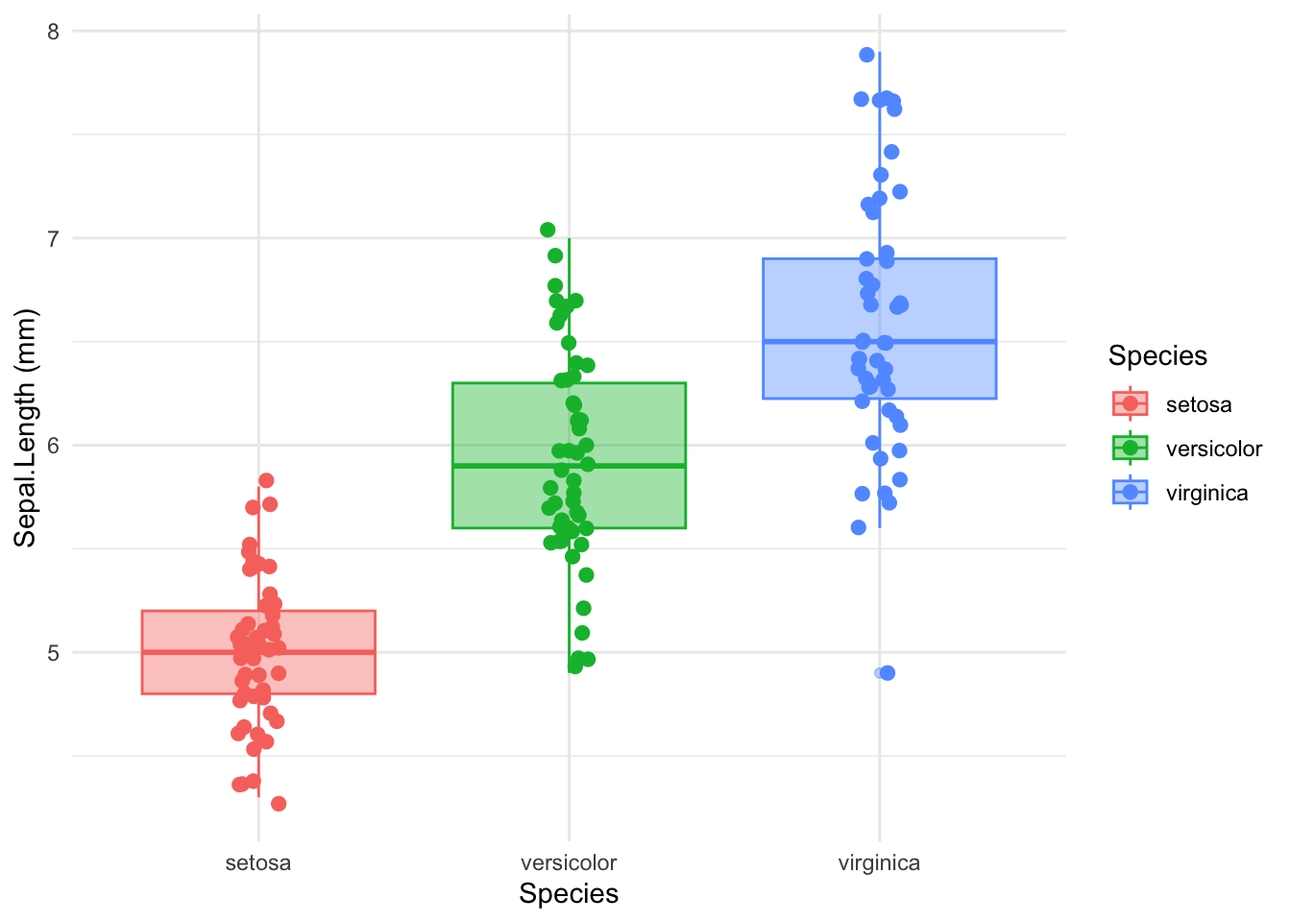
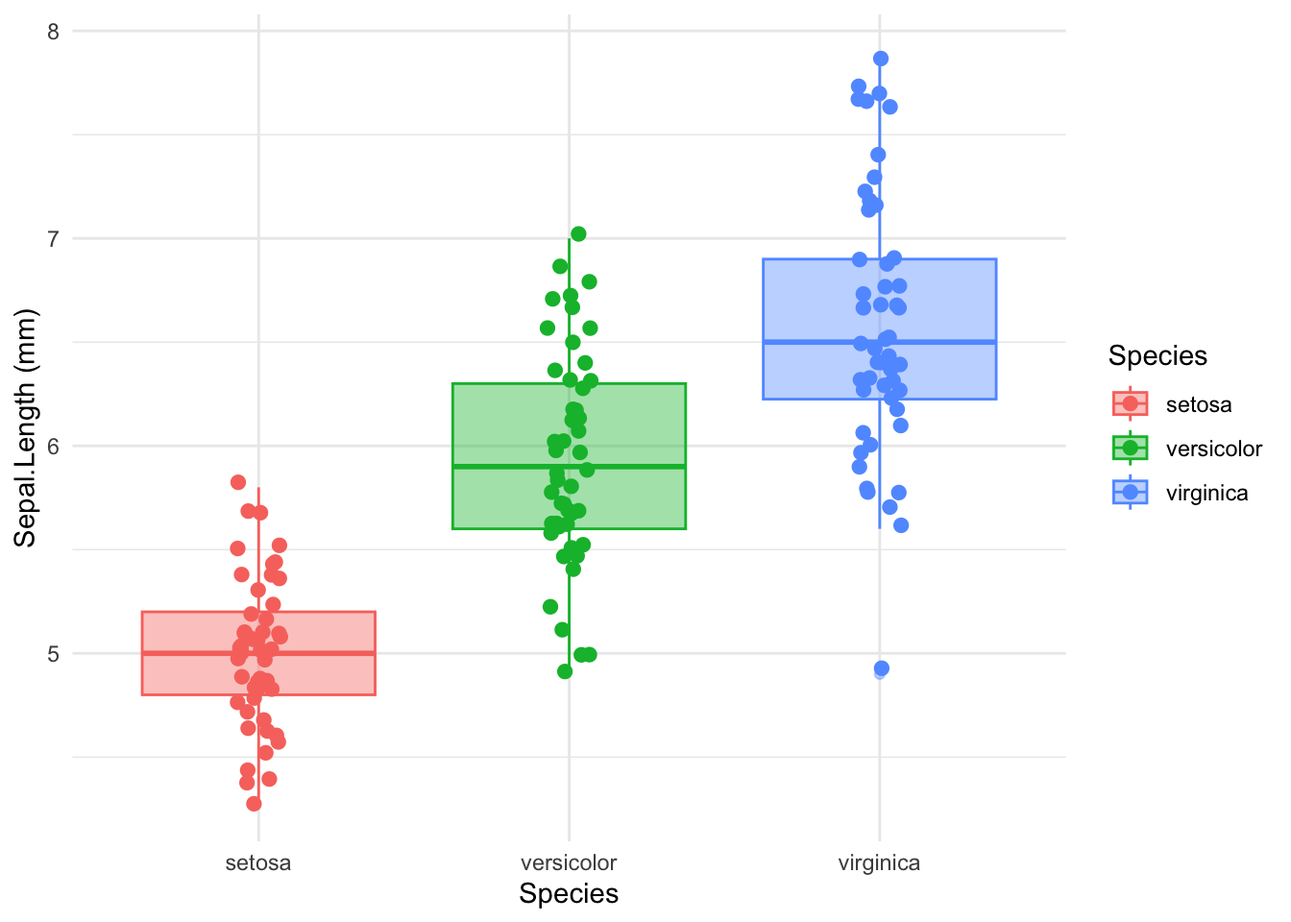
update

diff --git a/_site/Graph.html b/_site/Graph.html
@@ -144,7 +144,14 @@ pre > code.sourceCode > span > a:first-child::before { text-decoration: underlin
  <span class="menu-text">Graph</span></a>
   </li>  
 </ul>
-            <div class="quarto-navbar-tools ms-auto">
+            <ul class="navbar-nav navbar-nav-scroll ms-auto">
+  <li class="nav-item compact">
+    <a class="nav-link" href="https://github.com/marcgarel/quarto2.github.io" rel="" target=""><i class="bi bi-github" role="img">
+</i> 
+ <span class="menu-text"></span></a>
+  </li>  
+</ul>
+            <div class="quarto-navbar-tools">
 </div>
           </div> <!-- /navcollapse -->
       </div> <!-- /container-fluid -->
@@ -698,8 +705,8 @@ Attachement du package : 'dplyr'</code></pre>
 <span id="cb37-6"><a href="#cb37-6" aria-hidden="true" tabindex="-1"></a></span>
 <span id="cb37-7"><a href="#cb37-7" aria-hidden="true" tabindex="-1"></a>plotly<span class="sc">::</span><span class="fu">ggplotly</span>(p4, <span class="at">height =</span> <span class="dv">350</span>, <span class="at">width=</span><span class="dv">800</span>)</span></code><button title="Copy to Clipboard" class="code-copy-button"><i class="bi"></i></button></pre></div>
 <div class="cell-output-display">
-<div id="htmlwidget-ca898e4db4f6426ebc24" style="width:100%;height:284px;" class="plotly html-widget "></div>
-<script type="application/json" data-for="htmlwidget-ca898e4db4f6426ebc24">{"x":{"data":[{"x":[1,1,1,1,1,1,1,1,1,1,1,1,1,1,1,1,1,1,1,1,1,1,1,1,1,1,1,1,1,1,1,1,1,1,1,1,1,1,1,1,1,1,1,1,1,1,1,1,1,1],"y":[5.1,4.9,4.7,4.6,5,5.4,4.6,5,4.4,4.9,5.4,4.8,4.8,4.3,5.8,5.7,5.4,5.1,5.7,5.1,5.4,5.1,4.6,5.1,4.8,5,5,5.2,5.2,4.7,4.8,5.4,5.2,5.5,4.9,5,5.5,4.9,4.4,5.1,5,4.5,4.4,5,5.1,4.8,5.1,4.6,5.3,5],"hoverinfo":"y","type":"box","fillcolor":"rgba(248,118,109,0.4)","marker":{"opacity":null,"outliercolor":"rgba(0,0,0,1)","line":{"width":1.88976377952756,"color":"rgba(0,0,0,1)"},"size":5.66929133858268},"line":{"color":"rgba(248,118,109,1)","width":1.88976377952756},"name":"setosa","legendgroup":"setosa","showlegend":true,"xaxis":"x","yaxis":"y","frame":null},{"x":[2,2,2,2,2,2,2,2,2,2,2,2,2,2,2,2,2,2,2,2,2,2,2,2,2,2,2,2,2,2,2,2,2,2,2,2,2,2,2,2,2,2,2,2,2,2,2,2,2,2],"y":[7,6.4,6.9,5.5,6.5,5.7,6.3,4.9,6.6,5.2,5,5.9,6,6.1,5.6,6.7,5.6,5.8,6.2,5.6,5.9,6.1,6.3,6.1,6.4,6.6,6.8,6.7,6,5.7,5.5,5.5,5.8,6,5.4,6,6.7,6.3,5.6,5.5,5.5,6.1,5.8,5,5.6,5.7,5.7,6.2,5.1,5.7],"hoverinfo":"y","type":"box","fillcolor":"rgba(0,186,56,0.4)","marker":{"opacity":null,"outliercolor":"rgba(0,0,0,1)","line":{"width":1.88976377952756,"color":"rgba(0,0,0,1)"},"size":5.66929133858268},"line":{"color":"rgba(0,186,56,1)","width":1.88976377952756},"name":"versicolor","legendgroup":"versicolor","showlegend":true,"xaxis":"x","yaxis":"y","frame":null},{"x":[3,3,3,3,3,3,3,3,3,3,3,3,3,3,3,3,3,3,3,3,3,3,3,3,3,3,3,3,3,3,3,3,3,3,3,3,3,3,3,3,3,3,3,3,3,3,3,3,3,3],"y":[6.3,5.8,7.1,6.3,6.5,7.6,4.9,7.3,6.7,7.2,6.5,6.4,6.8,5.7,5.8,6.4,6.5,7.7,7.7,6,6.9,5.6,7.7,6.3,6.7,7.2,6.2,6.1,6.4,7.2,7.4,7.9,6.4,6.3,6.1,7.7,6.3,6.4,6,6.9,6.7,6.9,5.8,6.8,6.7,6.7,6.3,6.5,6.2,5.9],"hoverinfo":"y","type":"box","fillcolor":"rgba(97,156,255,0.4)","marker":{"opacity":null,"outliercolor":"rgba(0,0,0,1)","line":{"width":1.88976377952756,"color":"rgba(0,0,0,1)"},"size":5.66929133858268},"line":{"color":"rgba(97,156,255,1)","width":1.88976377952756},"name":"virginica","legendgroup":"virginica","showlegend":true,"xaxis":"x","yaxis":"y","frame":null},{"x":[1.00079128641635,0.931929415189661,0.94114892563317,1.00329865990672,0.934742586831562,1.02930625326,1.00300614621025,0.946089755799621,1.01433819714934,1.00128880893812,1.05833825688343,0.996778618204407,0.980784788886085,0.99013577232603,0.954372584335506,1.05053913369309,1.01101059493143,1.04415661919396,0.936728996993043,1.00929467872716,1.03090716088656,0.949894954361953,0.957413140982389,0.960828641802073,0.968080060221255,1.04637819108553,0.966221432569437,0.994820153918117,0.962149033481255,1.02070859925821,0.94820470649749,1.06844352098648,1.0291877951147,0.977481240741909,0.953076872578822,1.02950778458267,0.995959759010002,0.980662551689893,0.945571331004612,1.03850658743642,0.935295293047093,1.02195838039741,1.00526006545406,1.05972089958843,1.06736678103451,1.06602155196015,0.941716392296366,0.930447400836274,0.95495330738835,1.0487487702677],"y":[5.07685811325908,4.90272129043937,4.70428468139842,4.60751972861588,4.96371283648536,5.41053533047438,4.6002053068392,5.00316812792793,4.36744402151555,4.89952847009525,5.39994288545102,4.83612860530615,4.81700391031802,4.28595763273537,5.76424933375791,5.72207270298153,5.4277902873978,5.07846639301628,5.70563537668437,5.07750566208735,5.39109959451482,5.12679593076929,4.58881034152582,5.09580119648948,4.80144913375378,4.99927793303505,5.02603383053094,5.20190315529704,5.18162941211835,4.72089416220784,4.77581893133,5.41142962859944,5.21545520078391,5.51039980141446,4.90723908210173,4.99910688279197,5.53649118548259,4.87653732389212,4.37033821560443,5.10594423148781,5.02857184987515,4.52322512801737,4.43999377738684,4.9892888405174,5.12956932971254,4.78372328706086,5.09190794669092,4.56986863190308,5.28327108284459,5.02372187711299],"text":["Species: setosa<br />Sepal.Length: 5.1<br />Species: setosa","Species: setosa<br />Sepal.Length: 4.9<br />Species: setosa","Species: setosa<br />Sepal.Length: 4.7<br />Species: setosa","Species: setosa<br />Sepal.Length: 4.6<br />Species: setosa","Species: setosa<br />Sepal.Length: 5.0<br />Species: setosa","Species: setosa<br />Sepal.Length: 5.4<br />Species: setosa","Species: setosa<br />Sepal.Length: 4.6<br />Species: setosa","Species: setosa<br />Sepal.Length: 5.0<br />Species: setosa","Species: setosa<br />Sepal.Length: 4.4<br />Species: setosa","Species: setosa<br />Sepal.Length: 4.9<br />Species: setosa","Species: setosa<br />Sepal.Length: 5.4<br />Species: setosa","Species: setosa<br />Sepal.Length: 4.8<br />Species: setosa","Species: setosa<br />Sepal.Length: 4.8<br />Species: setosa","Species: setosa<br />Sepal.Length: 4.3<br />Species: setosa","Species: setosa<br />Sepal.Length: 5.8<br />Species: setosa","Species: setosa<br />Sepal.Length: 5.7<br />Species: setosa","Species: setosa<br />Sepal.Length: 5.4<br />Species: setosa","Species: setosa<br />Sepal.Length: 5.1<br />Species: setosa","Species: setosa<br />Sepal.Length: 5.7<br />Species: setosa","Species: setosa<br />Sepal.Length: 5.1<br />Species: setosa","Species: setosa<br />Sepal.Length: 5.4<br />Species: setosa","Species: setosa<br />Sepal.Length: 5.1<br />Species: setosa","Species: setosa<br />Sepal.Length: 4.6<br />Species: setosa","Species: setosa<br />Sepal.Length: 5.1<br />Species: setosa","Species: setosa<br />Sepal.Length: 4.8<br />Species: setosa","Species: setosa<br />Sepal.Length: 5.0<br />Species: setosa","Species: setosa<br />Sepal.Length: 5.0<br />Species: setosa","Species: setosa<br />Sepal.Length: 5.2<br />Species: setosa","Species: setosa<br />Sepal.Length: 5.2<br />Species: setosa","Species: setosa<br />Sepal.Length: 4.7<br />Species: setosa","Species: setosa<br />Sepal.Length: 4.8<br />Species: setosa","Species: setosa<br />Sepal.Length: 5.4<br />Species: setosa","Species: setosa<br />Sepal.Length: 5.2<br />Species: setosa","Species: setosa<br />Sepal.Length: 5.5<br />Species: setosa","Species: setosa<br />Sepal.Length: 4.9<br />Species: setosa","Species: setosa<br />Sepal.Length: 5.0<br />Species: setosa","Species: setosa<br />Sepal.Length: 5.5<br />Species: setosa","Species: setosa<br />Sepal.Length: 4.9<br />Species: setosa","Species: setosa<br />Sepal.Length: 4.4<br />Species: setosa","Species: setosa<br />Sepal.Length: 5.1<br />Species: setosa","Species: setosa<br />Sepal.Length: 5.0<br />Species: setosa","Species: setosa<br />Sepal.Length: 4.5<br />Species: setosa","Species: setosa<br />Sepal.Length: 4.4<br />Species: setosa","Species: setosa<br />Sepal.Length: 5.0<br />Species: setosa","Species: setosa<br />Sepal.Length: 5.1<br />Species: setosa","Species: setosa<br />Sepal.Length: 4.8<br />Species: setosa","Species: setosa<br />Sepal.Length: 5.1<br />Species: setosa","Species: setosa<br />Sepal.Length: 4.6<br />Species: setosa","Species: setosa<br />Sepal.Length: 5.3<br />Species: setosa","Species: setosa<br />Sepal.Length: 5.0<br />Species: setosa"],"type":"scatter","mode":"markers","marker":{"autocolorscale":false,"color":"rgba(248,118,109,1)","opacity":1,"size":8.31496062992126,"symbol":"circle","line":{"width":1.88976377952756,"color":"rgba(248,118,109,1)"}},"hoveron":"points","name":"(setosa,1)","legendgroup":"(setosa,1)","showlegend":true,"xaxis":"x","yaxis":"y","hoverinfo":"text","frame":null},{"x":[2.06800819860771,1.95804935843684,2.05639670130331,2.00868589636404,1.95925266681705,2.03951305699069,2.06611620105803,1.96959768706467,1.9777792027127,2.0124928343948,1.98071755013894,2.00205779082142,2.04007051369175,2.03890777628403,2.06939751572907,2.03160307808779,2.04057040857151,2.04725238264538,2.05616576004308,2.06012858839706,2.02828281117603,2.02075061515905,2.06983265683986,1.96442049881909,2.03130164011382,1.94996037045494,2.05394495895598,1.95333810896147,2.06937248018105,1.99573312688153,1.95579363652039,1.93341658718884,2.01693852189463,1.99634552759584,2.03584862870164,1.93290148522705,2.01037412039004,1.99205134305637,2.01682939812075,1.94929100016132,1.99389192204457,2.02532879865728,1.94501143062487,2.00613678035792,2.04206591286697,2.02335926665925,2.06856943843421,2.06262806869578,1.96614587371703,2.03804623557255],"y":[6.96603747829795,6.36837324092165,6.8611523462832,5.48547040062025,6.51655781863257,5.6861759740673,6.26092025449499,4.87599484728649,6.624020814877,5.17949085149914,4.97285057308152,5.92210262775421,6.01592667855322,6.11034822773188,5.5753543096967,6.68944046996534,5.60420421900228,5.79388238767162,6.18996798699722,5.62420170046389,5.93699130915105,6.13266769653186,6.28802191022783,6.1141366709955,6.42575650788844,6.56227342588827,6.78144080033526,6.71592684740201,6.03641938075423,5.68910477217287,5.51024510379881,5.51737285884097,5.83446467449889,6.00221040707082,5.43878375791013,6.02253780927509,6.66089159952477,6.28674582686275,5.6191705400683,5.50768634831533,5.53217487711459,6.09998990032822,5.82215101001784,5.02892568685114,5.60799517005682,5.68736277552322,5.66332556379959,6.18932880019769,5.10446117131039,5.70322678115219],"text":["Species: versicolor<br />Sepal.Length: 7.0<br />Species: versicolor","Species: versicolor<br />Sepal.Length: 6.4<br />Species: versicolor","Species: versicolor<br />Sepal.Length: 6.9<br />Species: versicolor","Species: versicolor<br />Sepal.Length: 5.5<br />Species: versicolor","Species: versicolor<br />Sepal.Length: 6.5<br />Species: versicolor","Species: versicolor<br />Sepal.Length: 5.7<br />Species: versicolor","Species: versicolor<br />Sepal.Length: 6.3<br />Species: versicolor","Species: versicolor<br />Sepal.Length: 4.9<br />Species: versicolor","Species: versicolor<br />Sepal.Length: 6.6<br />Species: versicolor","Species: versicolor<br />Sepal.Length: 5.2<br />Species: versicolor","Species: versicolor<br />Sepal.Length: 5.0<br />Species: versicolor","Species: versicolor<br />Sepal.Length: 5.9<br />Species: versicolor","Species: versicolor<br />Sepal.Length: 6.0<br />Species: versicolor","Species: versicolor<br />Sepal.Length: 6.1<br />Species: versicolor","Species: versicolor<br />Sepal.Length: 5.6<br />Species: versicolor","Species: versicolor<br />Sepal.Length: 6.7<br />Species: versicolor","Species: versicolor<br />Sepal.Length: 5.6<br />Species: versicolor","Species: versicolor<br />Sepal.Length: 5.8<br />Species: versicolor","Species: versicolor<br />Sepal.Length: 6.2<br />Species: versicolor","Species: versicolor<br />Sepal.Length: 5.6<br />Species: versicolor","Species: versicolor<br />Sepal.Length: 5.9<br />Species: versicolor","Species: versicolor<br />Sepal.Length: 6.1<br />Species: versicolor","Species: versicolor<br />Sepal.Length: 6.3<br />Species: versicolor","Species: versicolor<br />Sepal.Length: 6.1<br />Species: versicolor","Species: versicolor<br />Sepal.Length: 6.4<br />Species: versicolor","Species: versicolor<br />Sepal.Length: 6.6<br />Species: versicolor","Species: versicolor<br />Sepal.Length: 6.8<br />Species: versicolor","Species: versicolor<br />Sepal.Length: 6.7<br />Species: versicolor","Species: versicolor<br />Sepal.Length: 6.0<br />Species: versicolor","Species: versicolor<br />Sepal.Length: 5.7<br />Species: versicolor","Species: versicolor<br />Sepal.Length: 5.5<br />Species: versicolor","Species: versicolor<br />Sepal.Length: 5.5<br />Species: versicolor","Species: versicolor<br />Sepal.Length: 5.8<br />Species: versicolor","Species: versicolor<br />Sepal.Length: 6.0<br />Species: versicolor","Species: versicolor<br />Sepal.Length: 5.4<br />Species: versicolor","Species: versicolor<br />Sepal.Length: 6.0<br />Species: versicolor","Species: versicolor<br />Sepal.Length: 6.7<br />Species: versicolor","Species: versicolor<br />Sepal.Length: 6.3<br />Species: versicolor","Species: versicolor<br />Sepal.Length: 5.6<br />Species: versicolor","Species: versicolor<br />Sepal.Length: 5.5<br />Species: versicolor","Species: versicolor<br />Sepal.Length: 5.5<br />Species: versicolor","Species: versicolor<br />Sepal.Length: 6.1<br />Species: versicolor","Species: versicolor<br />Sepal.Length: 5.8<br />Species: versicolor","Species: versicolor<br />Sepal.Length: 5.0<br />Species: versicolor","Species: versicolor<br />Sepal.Length: 5.6<br />Species: versicolor","Species: versicolor<br />Sepal.Length: 5.7<br />Species: versicolor","Species: versicolor<br />Sepal.Length: 5.7<br />Species: versicolor","Species: versicolor<br />Sepal.Length: 6.2<br />Species: versicolor","Species: versicolor<br />Sepal.Length: 5.1<br />Species: versicolor","Species: versicolor<br />Sepal.Length: 5.7<br />Species: versicolor"],"type":"scatter","mode":"markers","marker":{"autocolorscale":false,"color":"rgba(0,186,56,1)","opacity":1,"size":8.31496062992126,"symbol":"circle","line":{"width":1.88976377952756,"color":"rgba(0,186,56,1)"}},"hoveron":"points","name":"(versicolor,1)","legendgroup":"(versicolor,1)","showlegend":true,"xaxis":"x","yaxis":"y","hoverinfo":"text","frame":null},{"x":[2.9585003757989,3.01351870979182,2.99161828980315,2.9831333799148,3.0683314309828,3.06884496392217,3.03986119641922,2.96268267331179,3.02771460183896,2.94069690551143,2.93563238246366,2.95433557718061,3.05254767314997,2.97041829961352,2.98360343194567,2.99327483681962,3.00956145641394,3.02264084820636,2.93755928376224,2.98094545586966,3.03696163130924,3.0577926808456,3.03335613069125,3.06279853754677,2.97850675731897,3.06763193291612,3.02051862553693,2.97961542165373,3.03294866291806,3.00173671100754,2.9890610897541,3.00989228473511,2.9627705558436,2.97901030334178,3.01495559089817,2.9397447377909,2.96899704487529,3.06049820597749,2.99499379614834,2.93295441413764,3.05304088758305,2.99570593622979,2.95419902972411,3.01022559448145,3.01287068107165,3.05827820340171,2.96608664117288,2.95833931880072,2.97795419534203,3.00378082074225],"y":[6.30041574172676,5.81332268889993,7.13315958466381,6.29481543172151,6.47844049302861,7.60015953907743,4.93976718757302,7.26628103218973,6.72287946283817,7.18724953114986,6.51943547029048,6.39645605769008,6.82114787446335,5.71269766243175,5.82335083605722,6.37500961087644,6.47568490181118,7.66680977487937,7.69215206911787,5.99158602707088,6.88065501360223,5.59614045163617,7.66570181107149,6.28883213169873,6.71202345209196,7.19613457193598,6.16985781783238,6.10249506333843,6.37905581593514,7.18417078815401,7.40252273088321,7.87771497553214,6.42472518542781,6.31587882820517,6.13607333809137,7.70968128979206,6.32939886644483,6.41814392466098,5.97117740606889,6.90750828970224,6.66946983309463,6.86926079263911,5.76640018058941,6.82396989027038,6.73250837642699,6.685097572878,6.26178486831486,6.51160417703912,6.1661938441731,5.92813093543053],"text":["Species: virginica<br />Sepal.Length: 6.3<br />Species: virginica","Species: virginica<br />Sepal.Length: 5.8<br />Species: virginica","Species: virginica<br />Sepal.Length: 7.1<br />Species: virginica","Species: virginica<br />Sepal.Length: 6.3<br />Species: virginica","Species: virginica<br />Sepal.Length: 6.5<br />Species: virginica","Species: virginica<br />Sepal.Length: 7.6<br />Species: virginica","Species: virginica<br />Sepal.Length: 4.9<br />Species: virginica","Species: virginica<br />Sepal.Length: 7.3<br />Species: virginica","Species: virginica<br />Sepal.Length: 6.7<br />Species: virginica","Species: virginica<br />Sepal.Length: 7.2<br />Species: virginica","Species: virginica<br />Sepal.Length: 6.5<br />Species: virginica","Species: virginica<br />Sepal.Length: 6.4<br />Species: virginica","Species: virginica<br />Sepal.Length: 6.8<br />Species: virginica","Species: virginica<br />Sepal.Length: 5.7<br />Species: virginica","Species: virginica<br />Sepal.Length: 5.8<br />Species: virginica","Species: virginica<br />Sepal.Length: 6.4<br />Species: virginica","Species: virginica<br />Sepal.Length: 6.5<br />Species: virginica","Species: virginica<br />Sepal.Length: 7.7<br />Species: virginica","Species: virginica<br />Sepal.Length: 7.7<br />Species: virginica","Species: virginica<br />Sepal.Length: 6.0<br />Species: virginica","Species: virginica<br />Sepal.Length: 6.9<br />Species: virginica","Species: virginica<br />Sepal.Length: 5.6<br />Species: virginica","Species: virginica<br />Sepal.Length: 7.7<br />Species: virginica","Species: virginica<br />Sepal.Length: 6.3<br />Species: virginica","Species: virginica<br />Sepal.Length: 6.7<br />Species: virginica","Species: virginica<br />Sepal.Length: 7.2<br />Species: virginica","Species: virginica<br />Sepal.Length: 6.2<br />Species: virginica","Species: virginica<br />Sepal.Length: 6.1<br />Species: virginica","Species: virginica<br />Sepal.Length: 6.4<br />Species: virginica","Species: virginica<br />Sepal.Length: 7.2<br />Species: virginica","Species: virginica<br />Sepal.Length: 7.4<br />Species: virginica","Species: virginica<br />Sepal.Length: 7.9<br />Species: virginica","Species: virginica<br />Sepal.Length: 6.4<br />Species: virginica","Species: virginica<br />Sepal.Length: 6.3<br />Species: virginica","Species: virginica<br />Sepal.Length: 6.1<br />Species: virginica","Species: virginica<br />Sepal.Length: 7.7<br />Species: virginica","Species: virginica<br />Sepal.Length: 6.3<br />Species: virginica","Species: virginica<br />Sepal.Length: 6.4<br />Species: virginica","Species: virginica<br />Sepal.Length: 6.0<br />Species: virginica","Species: virginica<br />Sepal.Length: 6.9<br />Species: virginica","Species: virginica<br />Sepal.Length: 6.7<br />Species: virginica","Species: virginica<br />Sepal.Length: 6.9<br />Species: virginica","Species: virginica<br />Sepal.Length: 5.8<br />Species: virginica","Species: virginica<br />Sepal.Length: 6.8<br />Species: virginica","Species: virginica<br />Sepal.Length: 6.7<br />Species: virginica","Species: virginica<br />Sepal.Length: 6.7<br />Species: virginica","Species: virginica<br />Sepal.Length: 6.3<br />Species: virginica","Species: virginica<br />Sepal.Length: 6.5<br />Species: virginica","Species: virginica<br />Sepal.Length: 6.2<br />Species: virginica","Species: virginica<br />Sepal.Length: 5.9<br />Species: virginica"],"type":"scatter","mode":"markers","marker":{"autocolorscale":false,"color":"rgba(97,156,255,1)","opacity":1,"size":8.31496062992126,"symbol":"circle","line":{"width":1.88976377952756,"color":"rgba(97,156,255,1)"}},"hoveron":"points","name":"(virginica,1)","legendgroup":"(virginica,1)","showlegend":true,"xaxis":"x","yaxis":"y","hoverinfo":"text","frame":null}],"layout":{"margin":{"t":32.6992824527071,"r":7.30593607305936,"b":46.6536203522505,"l":31.4155251141553},"font":{"color":"rgba(0,0,0,1)","family":"","size":14.6118721461187},"xaxis":{"domain":[0,1],"automargin":true,"type":"linear","autorange":false,"range":[0.4,3.6],"tickmode":"array","ticktext":["setosa","versicolor","virginica"],"tickvals":[1,2,3],"categoryorder":"array","categoryarray":["setosa","versicolor","virginica"],"nticks":null,"ticks":"","tickcolor":null,"ticklen":3.65296803652968,"tickwidth":0,"showticklabels":true,"tickfont":{"color":"rgba(77,77,77,1)","family":"","size":11.689497716895},"tickangle":-0,"showline":false,"linecolor":null,"linewidth":0,"showgrid":true,"gridcolor":"rgba(235,235,235,1)","gridwidth":0.66417600664176,"zeroline":false,"anchor":"y","title":{"text":"Species","font":{"color":"rgba(0,0,0,1)","family":"","size":14.6118721461187}},"hoverformat":".2f"},"yaxis":{"domain":[0,1],"automargin":true,"type":"linear","autorange":false,"range":[4.10525551437214,8.08070211836323],"tickmode":"array","ticktext":["5","6","7","8"],"tickvals":[5,6,7,8],"categoryorder":"array","categoryarray":["5","6","7","8"],"nticks":null,"ticks":"","tickcolor":null,"ticklen":3.65296803652968,"tickwidth":0,"showticklabels":true,"tickfont":{"color":"rgba(77,77,77,1)","family":"","size":11.689497716895},"tickangle":-0,"showline":false,"linecolor":null,"linewidth":0,"showgrid":true,"gridcolor":"rgba(235,235,235,1)","gridwidth":0.66417600664176,"zeroline":false,"anchor":"x","title":{"text":"Sepal.Length (mm)","font":{"color":"rgba(0,0,0,1)","family":"","size":14.6118721461187}},"hoverformat":".2f"},"shapes":[{"type":"rect","fillcolor":null,"line":{"color":null,"width":0,"linetype":[]},"yref":"paper","xref":"paper","x0":0,"x1":1,"y0":0,"y1":1}],"showlegend":true,"legend":{"bgcolor":null,"bordercolor":null,"borderwidth":0,"font":{"color":"rgba(0,0,0,1)","family":"","size":11.689497716895},"title":{"text":"Species","font":{"color":"rgba(0,0,0,1)","family":"","size":14.6118721461187}}},"hovermode":"closest","width":800,"height":350,"barmode":"relative"},"config":{"doubleClick":"reset","modeBarButtonsToAdd":["hoverclosest","hovercompare"],"showSendToCloud":false},"source":"A","attrs":{"3141198679bd":{"x":{},"y":{},"colour":{},"fill":{},"type":"box"},"31414ba27462":{"x":{},"y":{},"colour":{}}},"cur_data":"3141198679bd","visdat":{"3141198679bd":["function (y) ","x"],"31414ba27462":["function (y) ","x"]},"highlight":{"on":"plotly_click","persistent":false,"dynamic":false,"selectize":false,"opacityDim":0.2,"selected":{"opacity":1},"debounce":0},"shinyEvents":["plotly_hover","plotly_click","plotly_selected","plotly_relayout","plotly_brushed","plotly_brushing","plotly_clickannotation","plotly_doubleclick","plotly_deselect","plotly_afterplot","plotly_sunburstclick"],"base_url":"https://plot.ly"},"evals":[],"jsHooks":[]}</script>
+<div id="htmlwidget-08ff1baa21d6d4230e14" style="width:100%;height:284px;" class="plotly html-widget "></div>
+<script type="application/json" data-for="htmlwidget-08ff1baa21d6d4230e14">{"x":{"data":[{"x":[1,1,1,1,1,1,1,1,1,1,1,1,1,1,1,1,1,1,1,1,1,1,1,1,1,1,1,1,1,1,1,1,1,1,1,1,1,1,1,1,1,1,1,1,1,1,1,1,1,1],"y":[5.1,4.9,4.7,4.6,5,5.4,4.6,5,4.4,4.9,5.4,4.8,4.8,4.3,5.8,5.7,5.4,5.1,5.7,5.1,5.4,5.1,4.6,5.1,4.8,5,5,5.2,5.2,4.7,4.8,5.4,5.2,5.5,4.9,5,5.5,4.9,4.4,5.1,5,4.5,4.4,5,5.1,4.8,5.1,4.6,5.3,5],"hoverinfo":"y","type":"box","fillcolor":"rgba(248,118,109,0.4)","marker":{"opacity":null,"outliercolor":"rgba(0,0,0,1)","line":{"width":1.88976377952756,"color":"rgba(0,0,0,1)"},"size":5.66929133858268},"line":{"color":"rgba(248,118,109,1)","width":1.88976377952756},"name":"setosa","legendgroup":"setosa","showlegend":true,"xaxis":"x","yaxis":"y","frame":null},{"x":[2,2,2,2,2,2,2,2,2,2,2,2,2,2,2,2,2,2,2,2,2,2,2,2,2,2,2,2,2,2,2,2,2,2,2,2,2,2,2,2,2,2,2,2,2,2,2,2,2,2],"y":[7,6.4,6.9,5.5,6.5,5.7,6.3,4.9,6.6,5.2,5,5.9,6,6.1,5.6,6.7,5.6,5.8,6.2,5.6,5.9,6.1,6.3,6.1,6.4,6.6,6.8,6.7,6,5.7,5.5,5.5,5.8,6,5.4,6,6.7,6.3,5.6,5.5,5.5,6.1,5.8,5,5.6,5.7,5.7,6.2,5.1,5.7],"hoverinfo":"y","type":"box","fillcolor":"rgba(0,186,56,0.4)","marker":{"opacity":null,"outliercolor":"rgba(0,0,0,1)","line":{"width":1.88976377952756,"color":"rgba(0,0,0,1)"},"size":5.66929133858268},"line":{"color":"rgba(0,186,56,1)","width":1.88976377952756},"name":"versicolor","legendgroup":"versicolor","showlegend":true,"xaxis":"x","yaxis":"y","frame":null},{"x":[3,3,3,3,3,3,3,3,3,3,3,3,3,3,3,3,3,3,3,3,3,3,3,3,3,3,3,3,3,3,3,3,3,3,3,3,3,3,3,3,3,3,3,3,3,3,3,3,3,3],"y":[6.3,5.8,7.1,6.3,6.5,7.6,4.9,7.3,6.7,7.2,6.5,6.4,6.8,5.7,5.8,6.4,6.5,7.7,7.7,6,6.9,5.6,7.7,6.3,6.7,7.2,6.2,6.1,6.4,7.2,7.4,7.9,6.4,6.3,6.1,7.7,6.3,6.4,6,6.9,6.7,6.9,5.8,6.8,6.7,6.7,6.3,6.5,6.2,5.9],"hoverinfo":"y","type":"box","fillcolor":"rgba(97,156,255,0.4)","marker":{"opacity":null,"outliercolor":"rgba(0,0,0,1)","line":{"width":1.88976377952756,"color":"rgba(0,0,0,1)"},"size":5.66929133858268},"line":{"color":"rgba(97,156,255,1)","width":1.88976377952756},"name":"virginica","legendgroup":"virginica","showlegend":true,"xaxis":"x","yaxis":"y","frame":null},{"x":[1.02925095088314,0.948333638319746,0.987817562832497,1.00727820787579,0.961973828128539,1.0092022154713,0.950098092877306,0.972971080681309,0.930637692827731,1.04356602295302,0.987683740979992,1.01040103889536,1.00397824486718,0.967757044481114,0.93150235554669,1.03197609546129,1.02920904525556,0.943531046477146,1.0101306156069,1.05370468850713,1.0301445082901,0.974526737062261,0.983154772436246,1.01499447677284,1.02162695113104,1.05636300629005,1.03069584347308,0.931472163917497,0.956277302620001,0.947179325129837,0.972841818202287,0.959590812092647,0.998603877914138,0.947146248240024,0.956390000740066,0.985273543321528,1.03404427221045,1.03937959210016,0.960181693322957,0.933732319287956,0.970625047679059,0.959069781126454,1.04928733917885,1.01636852530297,1.01331522233319,1.05213790531736,1.0309813083522,1.04127126737032,1.04510360599495,1.0128677222738],"y":[5.11400240641087,4.92810409711674,4.67394578458741,4.62560576669872,5.02959661399946,5.42007195016369,4.63864252647385,4.9714702774398,4.36539071682841,4.89902345485985,5.43591701434925,4.83900904389098,4.76055301651359,4.2709998918511,5.83757760211825,5.66129627579823,5.43897259661928,5.06570253970101,5.66414969624952,5.08225590946153,5.38826251508668,5.09174831161276,4.59269427252933,5.07339917767793,4.77620624572039,5.00925957391039,5.01152849258855,5.21195444213226,5.21132862491533,4.73156696744263,4.77827861668542,5.41659942056984,5.1850399258174,5.4699744627066,4.87977075817064,5.00254497973248,5.49385248219594,4.8821176420711,4.37866813909262,5.12185140261426,5.01179748015478,4.50103118401021,4.42543992444873,4.96572035269812,5.06190186955035,4.83793725846335,5.11177828703076,4.59088139094412,5.32114072224125,4.96367000320926],"text":["Species: setosa<br />Sepal.Length: 5.1<br />Species: setosa","Species: setosa<br />Sepal.Length: 4.9<br />Species: setosa","Species: setosa<br />Sepal.Length: 4.7<br />Species: setosa","Species: setosa<br />Sepal.Length: 4.6<br />Species: setosa","Species: setosa<br />Sepal.Length: 5.0<br />Species: setosa","Species: setosa<br />Sepal.Length: 5.4<br />Species: setosa","Species: setosa<br />Sepal.Length: 4.6<br />Species: setosa","Species: setosa<br />Sepal.Length: 5.0<br />Species: setosa","Species: setosa<br />Sepal.Length: 4.4<br />Species: setosa","Species: setosa<br />Sepal.Length: 4.9<br />Species: setosa","Species: setosa<br />Sepal.Length: 5.4<br />Species: setosa","Species: setosa<br />Sepal.Length: 4.8<br />Species: setosa","Species: setosa<br />Sepal.Length: 4.8<br />Species: setosa","Species: setosa<br />Sepal.Length: 4.3<br />Species: setosa","Species: setosa<br />Sepal.Length: 5.8<br />Species: setosa","Species: setosa<br />Sepal.Length: 5.7<br />Species: setosa","Species: setosa<br />Sepal.Length: 5.4<br />Species: setosa","Species: setosa<br />Sepal.Length: 5.1<br />Species: setosa","Species: setosa<br />Sepal.Length: 5.7<br />Species: setosa","Species: setosa<br />Sepal.Length: 5.1<br />Species: setosa","Species: setosa<br />Sepal.Length: 5.4<br />Species: setosa","Species: setosa<br />Sepal.Length: 5.1<br />Species: setosa","Species: setosa<br />Sepal.Length: 4.6<br />Species: setosa","Species: setosa<br />Sepal.Length: 5.1<br />Species: setosa","Species: setosa<br />Sepal.Length: 4.8<br />Species: setosa","Species: setosa<br />Sepal.Length: 5.0<br />Species: setosa","Species: setosa<br />Sepal.Length: 5.0<br />Species: setosa","Species: setosa<br />Sepal.Length: 5.2<br />Species: setosa","Species: setosa<br />Sepal.Length: 5.2<br />Species: setosa","Species: setosa<br />Sepal.Length: 4.7<br />Species: setosa","Species: setosa<br />Sepal.Length: 4.8<br />Species: setosa","Species: setosa<br />Sepal.Length: 5.4<br />Species: setosa","Species: setosa<br />Sepal.Length: 5.2<br />Species: setosa","Species: setosa<br />Sepal.Length: 5.5<br />Species: setosa","Species: setosa<br />Sepal.Length: 4.9<br />Species: setosa","Species: setosa<br />Sepal.Length: 5.0<br />Species: setosa","Species: setosa<br />Sepal.Length: 5.5<br />Species: setosa","Species: setosa<br />Sepal.Length: 4.9<br />Species: setosa","Species: setosa<br />Sepal.Length: 4.4<br />Species: setosa","Species: setosa<br />Sepal.Length: 5.1<br />Species: setosa","Species: setosa<br />Sepal.Length: 5.0<br />Species: setosa","Species: setosa<br />Sepal.Length: 4.5<br />Species: setosa","Species: setosa<br />Sepal.Length: 4.4<br />Species: setosa","Species: setosa<br />Sepal.Length: 5.0<br />Species: setosa","Species: setosa<br />Sepal.Length: 5.1<br />Species: setosa","Species: setosa<br />Sepal.Length: 4.8<br />Species: setosa","Species: setosa<br />Sepal.Length: 5.1<br />Species: setosa","Species: setosa<br />Sepal.Length: 4.6<br />Species: setosa","Species: setosa<br />Sepal.Length: 5.3<br />Species: setosa","Species: setosa<br />Sepal.Length: 5.0<br />Species: setosa"],"type":"scatter","mode":"markers","marker":{"autocolorscale":false,"color":"rgba(248,118,109,1)","opacity":1,"size":8.31496062992126,"symbol":"circle","line":{"width":1.88976377952756,"color":"rgba(248,118,109,1)"}},"hoveron":"points","name":"(setosa,1)","legendgroup":"(setosa,1)","showlegend":true,"xaxis":"x","yaxis":"y","hoverinfo":"text","frame":null},{"x":[2.00624111932237,2.01213845629711,2.00854399099015,1.98251216340344,1.94426838671789,2.04350888455752,1.95578350764699,2.01672860028688,2.01374208056368,1.99882040225901,2.04860056135803,1.99880109658465,2.01834409045055,2.02701415593736,2.02833856462035,1.97866006467957,2.04348191875499,2.03527647606097,2.05824386030901,2.0260965802148,2.0218205353478,1.96344342518598,1.93846502448898,1.98948624776211,2.00572354000993,2.06131130205002,2.03614992491435,2.0222480481118,1.97334663515445,1.97115168374032,2.02703780963086,1.9608522495674,1.98248285924084,1.98336703331675,2.00266323705204,1.98574091010261,2.03055634481367,1.94402093934827,1.9837123100413,1.99453554518055,2.04053246720694,1.94888271308038,2.01453470554668,1.9627105636429,2.01188616560772,1.9491327199107,2.0001457089372,1.94834668707103,1.97881791837513,1.99056151449215],"y":[7.02110695483163,6.41651427134872,6.91059851333499,5.49687011875212,6.49045009447262,5.66099704120308,6.30458456186578,4.86377235597,6.62959894446656,5.16764177205041,4.97184865733609,5.89672267215327,6.0087849275209,6.13528244109824,5.56124548567459,6.71723558161408,5.59618760179728,5.82280563997105,6.23356888720766,5.57831062678248,5.88378209611401,6.09759736016393,6.295058277715,6.11243582339957,6.39314902989194,6.60337274245918,6.8183230891265,6.70550799766555,5.99716473681852,5.70149346282706,5.52168295150623,5.51524884123355,5.7766440304555,6.02486808437854,5.42470996681601,6.02885305352509,6.71758605558425,6.2991426714696,5.63870729040354,5.53870364118367,5.49544537534937,6.091476341784,5.80018797241151,4.97481932586059,5.60636647131294,5.68859273234382,5.72111448192969,6.21092410765588,5.07752540932968,5.73994103694335],"text":["Species: versicolor<br />Sepal.Length: 7.0<br />Species: versicolor","Species: versicolor<br />Sepal.Length: 6.4<br />Species: versicolor","Species: versicolor<br />Sepal.Length: 6.9<br />Species: versicolor","Species: versicolor<br />Sepal.Length: 5.5<br />Species: versicolor","Species: versicolor<br />Sepal.Length: 6.5<br />Species: versicolor","Species: versicolor<br />Sepal.Length: 5.7<br />Species: versicolor","Species: versicolor<br />Sepal.Length: 6.3<br />Species: versicolor","Species: versicolor<br />Sepal.Length: 4.9<br />Species: versicolor","Species: versicolor<br />Sepal.Length: 6.6<br />Species: versicolor","Species: versicolor<br />Sepal.Length: 5.2<br />Species: versicolor","Species: versicolor<br />Sepal.Length: 5.0<br />Species: versicolor","Species: versicolor<br />Sepal.Length: 5.9<br />Species: versicolor","Species: versicolor<br />Sepal.Length: 6.0<br />Species: versicolor","Species: versicolor<br />Sepal.Length: 6.1<br />Species: versicolor","Species: versicolor<br />Sepal.Length: 5.6<br />Species: versicolor","Species: versicolor<br />Sepal.Length: 6.7<br />Species: versicolor","Species: versicolor<br />Sepal.Length: 5.6<br />Species: versicolor","Species: versicolor<br />Sepal.Length: 5.8<br />Species: versicolor","Species: versicolor<br />Sepal.Length: 6.2<br />Species: versicolor","Species: versicolor<br />Sepal.Length: 5.6<br />Species: versicolor","Species: versicolor<br />Sepal.Length: 5.9<br />Species: versicolor","Species: versicolor<br />Sepal.Length: 6.1<br />Species: versicolor","Species: versicolor<br />Sepal.Length: 6.3<br />Species: versicolor","Species: versicolor<br />Sepal.Length: 6.1<br />Species: versicolor","Species: versicolor<br />Sepal.Length: 6.4<br />Species: versicolor","Species: versicolor<br />Sepal.Length: 6.6<br />Species: versicolor","Species: versicolor<br />Sepal.Length: 6.8<br />Species: versicolor","Species: versicolor<br />Sepal.Length: 6.7<br />Species: versicolor","Species: versicolor<br />Sepal.Length: 6.0<br />Species: versicolor","Species: versicolor<br />Sepal.Length: 5.7<br />Species: versicolor","Species: versicolor<br />Sepal.Length: 5.5<br />Species: versicolor","Species: versicolor<br />Sepal.Length: 5.5<br />Species: versicolor","Species: versicolor<br />Sepal.Length: 5.8<br />Species: versicolor","Species: versicolor<br />Sepal.Length: 6.0<br />Species: versicolor","Species: versicolor<br />Sepal.Length: 5.4<br />Species: versicolor","Species: versicolor<br />Sepal.Length: 6.0<br />Species: versicolor","Species: versicolor<br />Sepal.Length: 6.7<br />Species: versicolor","Species: versicolor<br />Sepal.Length: 6.3<br />Species: versicolor","Species: versicolor<br />Sepal.Length: 5.6<br />Species: versicolor","Species: versicolor<br />Sepal.Length: 5.5<br />Species: versicolor","Species: versicolor<br />Sepal.Length: 5.5<br />Species: versicolor","Species: versicolor<br />Sepal.Length: 6.1<br />Species: versicolor","Species: versicolor<br />Sepal.Length: 5.8<br />Species: versicolor","Species: versicolor<br />Sepal.Length: 5.0<br />Species: versicolor","Species: versicolor<br />Sepal.Length: 5.6<br />Species: versicolor","Species: versicolor<br />Sepal.Length: 5.7<br />Species: versicolor","Species: versicolor<br />Sepal.Length: 5.7<br />Species: versicolor","Species: versicolor<br />Sepal.Length: 6.2<br />Species: versicolor","Species: versicolor<br />Sepal.Length: 5.1<br />Species: versicolor","Species: versicolor<br />Sepal.Length: 5.7<br />Species: versicolor"],"type":"scatter","mode":"markers","marker":{"autocolorscale":false,"color":"rgba(0,186,56,1)","opacity":1,"size":8.31496062992126,"symbol":"circle","line":{"width":1.88976377952756,"color":"rgba(0,186,56,1)"}},"hoveron":"points","name":"(versicolor,1)","legendgroup":"(versicolor,1)","showlegend":true,"xaxis":"x","yaxis":"y","hoverinfo":"text","frame":null},{"x":[2.93825230960734,2.97369093995541,2.95601019544993,2.96732506028842,2.97015903146006,3.02433329377789,2.93867798139807,3.03785952663049,2.99808193223085,2.96125073911622,2.99297969468869,3.05272698882967,2.94924499916844,2.96866995554417,3.0408142977301,2.98568560511805,3.02346851853654,3.04598739810754,2.93458364334423,3.05807836933527,2.99777516430709,3.03986139626708,3.03245932939928,3.06217521710787,2.97362645758316,2.97475438355468,3.0443900724221,3.04116202351172,2.9445906708017,2.98249396528583,3.04029961329419,3.04226437032688,2.98394516959321,3.03478178266902,2.98935845289845,3.06684195462149,3.0483933528699,3.00818576965947,2.98939953168854,2.98563221686054,3.05675120698288,3.01016221428756,3.05740111008752,2.9444153115619,2.93044447460212,3.04771409573033,3.03600650482345,2.99010049877223,2.96835034409538,2.99502983261831],"y":[6.26232945922762,5.83134220151231,7.07522456618026,6.33893712798133,6.51824665943161,7.57456188017502,4.90463273936883,7.30838077884167,6.7058927404508,7.17166508685797,6.4836333848536,6.43724035361782,6.79938336070627,5.69613292625174,5.82512220999226,6.39756496872753,6.53088881952688,7.73127969397232,7.73286033738404,5.97122243771329,6.87275040360168,5.62257600557059,7.70546627763659,6.28763456325978,6.67807575404644,7.18648120032623,6.23596150984988,6.10845294872299,6.4124853143096,7.16892329029739,7.40562658332288,7.90532891290262,6.38726511834189,6.2664690290764,6.08702531119809,7.68248808547854,6.27974586272612,6.36489618573338,6.03264209955931,6.91049383753911,6.72883593119681,6.91932975098491,5.81473410045728,6.78978068834171,6.6823084336333,6.70879425898194,6.2706548147276,6.50025088872761,6.20498906066641,5.90608577340841],"text":["Species: virginica<br />Sepal.Length: 6.3<br />Species: virginica","Species: virginica<br />Sepal.Length: 5.8<br />Species: virginica","Species: virginica<br />Sepal.Length: 7.1<br />Species: virginica","Species: virginica<br />Sepal.Length: 6.3<br />Species: virginica","Species: virginica<br />Sepal.Length: 6.5<br />Species: virginica","Species: virginica<br />Sepal.Length: 7.6<br />Species: virginica","Species: virginica<br />Sepal.Length: 4.9<br />Species: virginica","Species: virginica<br />Sepal.Length: 7.3<br />Species: virginica","Species: virginica<br />Sepal.Length: 6.7<br />Species: virginica","Species: virginica<br />Sepal.Length: 7.2<br />Species: virginica","Species: virginica<br />Sepal.Length: 6.5<br />Species: virginica","Species: virginica<br />Sepal.Length: 6.4<br />Species: virginica","Species: virginica<br />Sepal.Length: 6.8<br />Species: virginica","Species: virginica<br />Sepal.Length: 5.7<br />Species: virginica","Species: virginica<br />Sepal.Length: 5.8<br />Species: virginica","Species: virginica<br />Sepal.Length: 6.4<br />Species: virginica","Species: virginica<br />Sepal.Length: 6.5<br />Species: virginica","Species: virginica<br />Sepal.Length: 7.7<br />Species: virginica","Species: virginica<br />Sepal.Length: 7.7<br />Species: virginica","Species: virginica<br />Sepal.Length: 6.0<br />Species: virginica","Species: virginica<br />Sepal.Length: 6.9<br />Species: virginica","Species: virginica<br />Sepal.Length: 5.6<br />Species: virginica","Species: virginica<br />Sepal.Length: 7.7<br />Species: virginica","Species: virginica<br />Sepal.Length: 6.3<br />Species: virginica","Species: virginica<br />Sepal.Length: 6.7<br />Species: virginica","Species: virginica<br />Sepal.Length: 7.2<br />Species: virginica","Species: virginica<br />Sepal.Length: 6.2<br />Species: virginica","Species: virginica<br />Sepal.Length: 6.1<br />Species: virginica","Species: virginica<br />Sepal.Length: 6.4<br />Species: virginica","Species: virginica<br />Sepal.Length: 7.2<br />Species: virginica","Species: virginica<br />Sepal.Length: 7.4<br />Species: virginica","Species: virginica<br />Sepal.Length: 7.9<br />Species: virginica","Species: virginica<br />Sepal.Length: 6.4<br />Species: virginica","Species: virginica<br />Sepal.Length: 6.3<br />Species: virginica","Species: virginica<br />Sepal.Length: 6.1<br />Species: virginica","Species: virginica<br />Sepal.Length: 7.7<br />Species: virginica","Species: virginica<br />Sepal.Length: 6.3<br />Species: virginica","Species: virginica<br />Sepal.Length: 6.4<br />Species: virginica","Species: virginica<br />Sepal.Length: 6.0<br />Species: virginica","Species: virginica<br />Sepal.Length: 6.9<br />Species: virginica","Species: virginica<br />Sepal.Length: 6.7<br />Species: virginica","Species: virginica<br />Sepal.Length: 6.9<br />Species: virginica","Species: virginica<br />Sepal.Length: 5.8<br />Species: virginica","Species: virginica<br />Sepal.Length: 6.8<br />Species: virginica","Species: virginica<br />Sepal.Length: 6.7<br />Species: virginica","Species: virginica<br />Sepal.Length: 6.7<br />Species: virginica","Species: virginica<br />Sepal.Length: 6.3<br />Species: virginica","Species: virginica<br />Sepal.Length: 6.5<br />Species: virginica","Species: virginica<br />Sepal.Length: 6.2<br />Species: virginica","Species: virginica<br />Sepal.Length: 5.9<br />Species: virginica"],"type":"scatter","mode":"markers","marker":{"autocolorscale":false,"color":"rgba(97,156,255,1)","opacity":1,"size":8.31496062992126,"symbol":"circle","line":{"width":1.88976377952756,"color":"rgba(97,156,255,1)"}},"hoveron":"points","name":"(virginica,1)","legendgroup":"(virginica,1)","showlegend":true,"xaxis":"x","yaxis":"y","hoverinfo":"text","frame":null}],"layout":{"margin":{"t":32.6992824527071,"r":7.30593607305936,"b":46.6536203522505,"l":31.4155251141553},"font":{"color":"rgba(0,0,0,1)","family":"","size":14.6118721461187},"xaxis":{"domain":[0,1],"automargin":true,"type":"linear","autorange":false,"range":[0.4,3.6],"tickmode":"array","ticktext":["setosa","versicolor","virginica"],"tickvals":[1,2,3],"categoryorder":"array","categoryarray":["setosa","versicolor","virginica"],"nticks":null,"ticks":"","tickcolor":null,"ticklen":3.65296803652968,"tickwidth":0,"showticklabels":true,"tickfont":{"color":"rgba(77,77,77,1)","family":"","size":11.689497716895},"tickangle":-0,"showline":false,"linecolor":null,"linewidth":0,"showgrid":true,"gridcolor":"rgba(235,235,235,1)","gridwidth":0.66417600664176,"zeroline":false,"anchor":"y","title":{"text":"Species","font":{"color":"rgba(0,0,0,1)","family":"","size":14.6118721461187}},"hoverformat":".2f"},"yaxis":{"domain":[0,1],"automargin":true,"type":"linear","autorange":false,"range":[4.08928344079852,8.0870453639552],"tickmode":"array","ticktext":["5","6","7","8"],"tickvals":[5,6,7,8],"categoryorder":"array","categoryarray":["5","6","7","8"],"nticks":null,"ticks":"","tickcolor":null,"ticklen":3.65296803652968,"tickwidth":0,"showticklabels":true,"tickfont":{"color":"rgba(77,77,77,1)","family":"","size":11.689497716895},"tickangle":-0,"showline":false,"linecolor":null,"linewidth":0,"showgrid":true,"gridcolor":"rgba(235,235,235,1)","gridwidth":0.66417600664176,"zeroline":false,"anchor":"x","title":{"text":"Sepal.Length (mm)","font":{"color":"rgba(0,0,0,1)","family":"","size":14.6118721461187}},"hoverformat":".2f"},"shapes":[{"type":"rect","fillcolor":null,"line":{"color":null,"width":0,"linetype":[]},"yref":"paper","xref":"paper","x0":0,"x1":1,"y0":0,"y1":1}],"showlegend":true,"legend":{"bgcolor":null,"bordercolor":null,"borderwidth":0,"font":{"color":"rgba(0,0,0,1)","family":"","size":11.689497716895},"title":{"text":"Species","font":{"color":"rgba(0,0,0,1)","family":"","size":14.6118721461187}}},"hovermode":"closest","width":800,"height":350,"barmode":"relative"},"config":{"doubleClick":"reset","modeBarButtonsToAdd":["hoverclosest","hovercompare"],"showSendToCloud":false},"source":"A","attrs":{"3431530603fb":{"x":{},"y":{},"colour":{},"fill":{},"type":"box"},"34312fef7e52":{"x":{},"y":{},"colour":{}}},"cur_data":"3431530603fb","visdat":{"3431530603fb":["function (y) ","x"],"34312fef7e52":["function (y) ","x"]},"highlight":{"on":"plotly_click","persistent":false,"dynamic":false,"selectize":false,"opacityDim":0.2,"selected":{"opacity":1},"debounce":0},"shinyEvents":["plotly_hover","plotly_click","plotly_selected","plotly_relayout","plotly_brushed","plotly_brushing","plotly_clickannotation","plotly_doubleclick","plotly_deselect","plotly_afterplot","plotly_sunburstclick"],"base_url":"https://plot.ly"},"evals":[],"jsHooks":[]}</script>
 </div>
 </div>
 <p><em>Exo 1</em></p>
